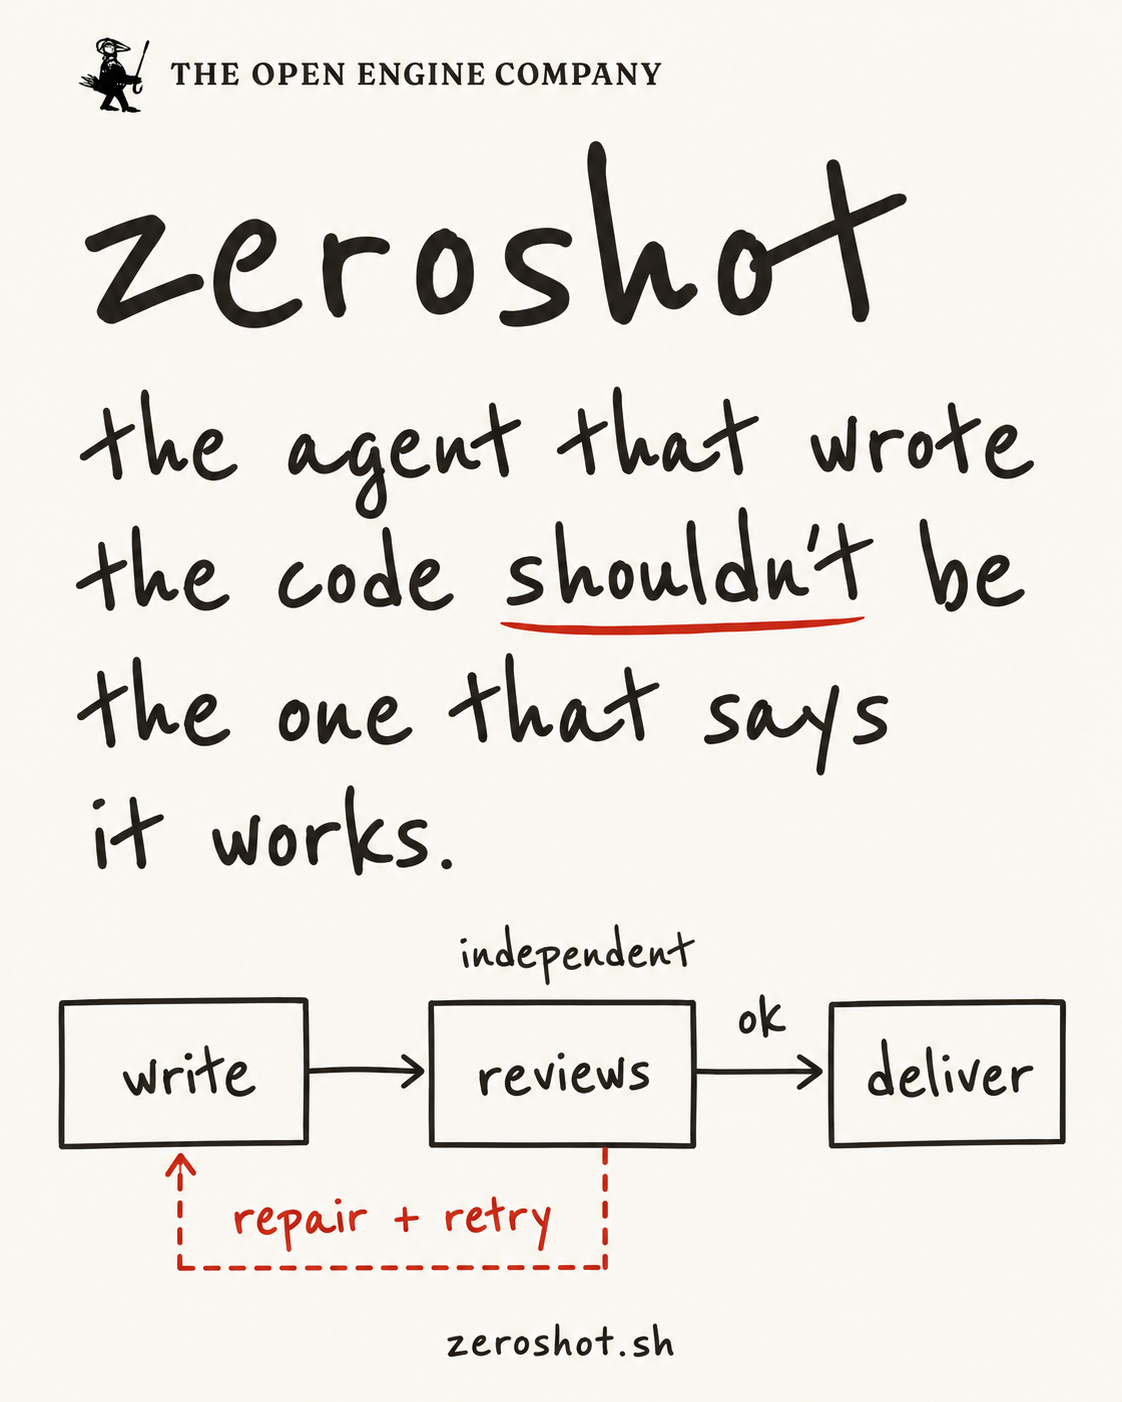
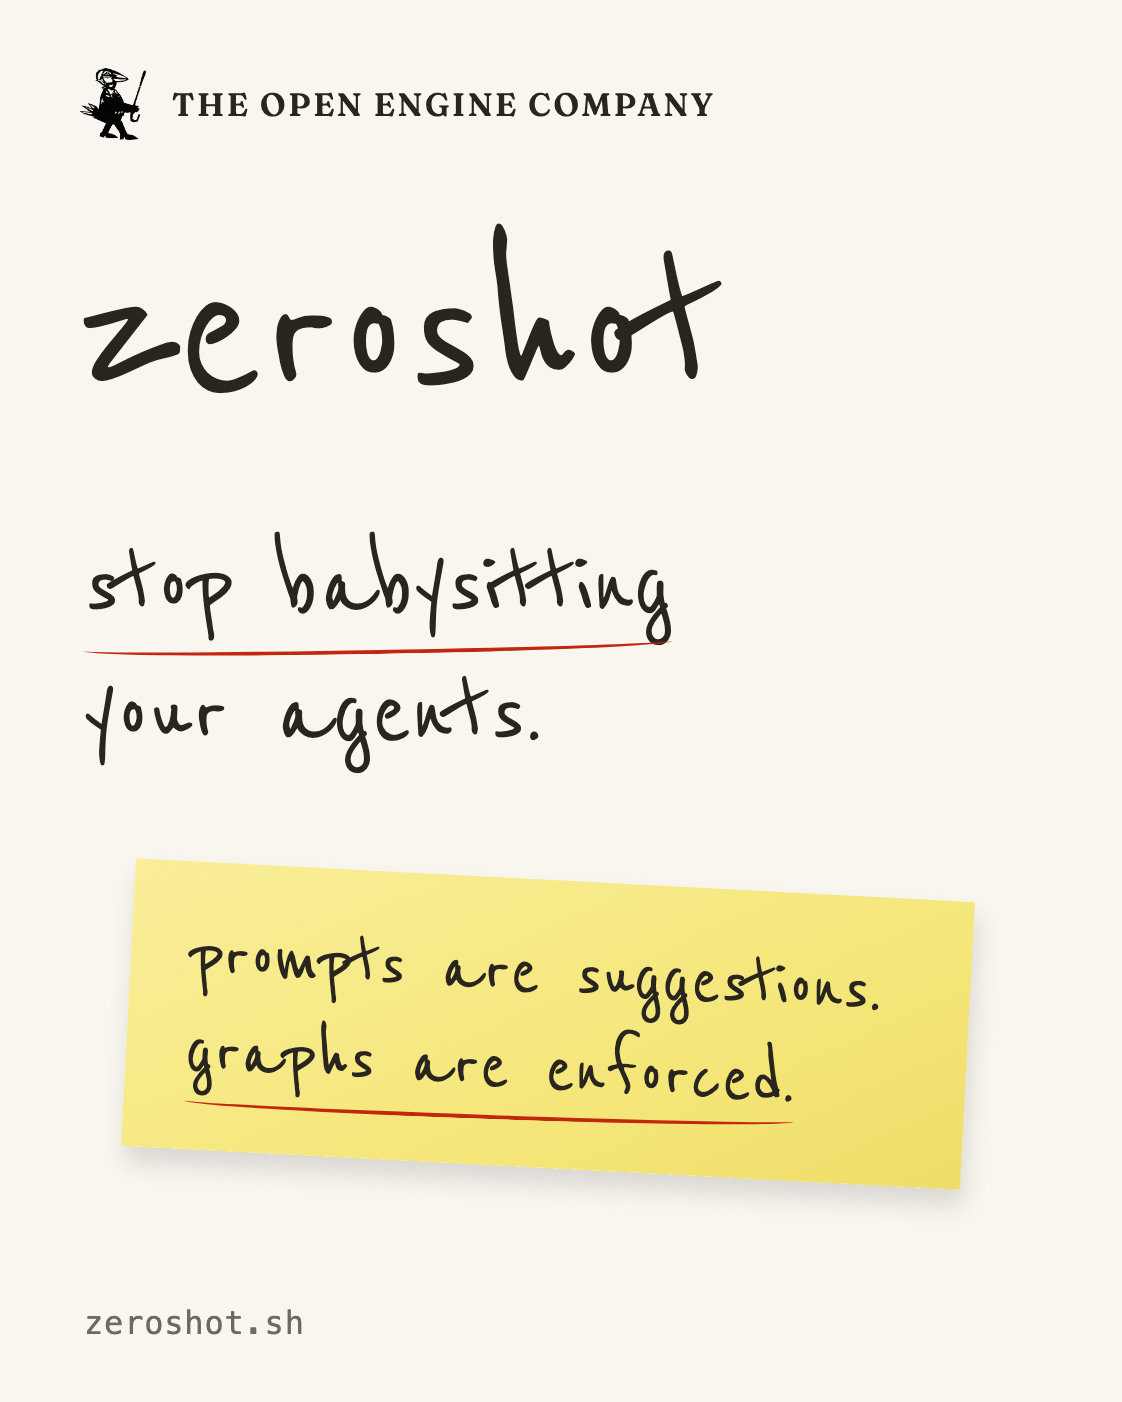
docs(readme): lead with the team's own graph
Move "Build your own graph" up under the intro, show how to design one with the zeroshot-graph-design skill or run an edited export with --graph, and draw the example as text. Drop the early animated graph. The banners now carry the README headline instead of the built-in review loop; the mobile banner is rendered from HTML.

diff --git a/docs/brand/hero.css b/docs/brand/hero.css
@@ -10,14 +10,9 @@ html, body { margin: 0; width: 1280px; height: 400px; }
 .brand img { width: 33px; height: 36px; object-fit: contain; }
 [data-theme="dark"] .brand img { filter: invert(1); }
 h1 { position: absolute; margin: 0; left: 51px; top: 87px; font-size: 120px; font-weight: 400; line-height: 1; letter-spacing: -2px; }
-.description { position: absolute; top: 206px; left: 56px; margin: 0; font-size: 44px; line-height: 1.12; }
+.description { position: absolute; top: 222px; left: 56px; margin: 0; font-size: 56px; line-height: 1.12; }
 .emphasis { position: relative; display: inline-block; }
 .emphasis::after { content: ""; position: absolute; left: 0; right: 0; bottom: -1px; height: 6px; border-bottom: 2px solid var(--accent); border-radius: 50%; transform: rotate(-1deg); }
 .url { position: absolute; bottom: 29px; left: 56px; margin: 0; color: var(--muted); font: 16px ui-monospace, "SF Mono", Menlo, monospace; letter-spacing: .4px; }
-.note { position: absolute; top: 40px; right: 72px; width: 264px; height: 124px; padding: 18px 23px; margin: 0; background: linear-gradient(153deg,#fbef99 0%,#f5e777 65%,#f0de68 100%); box-shadow: 2px 8px 12px #00000020; transform: rotate(3deg); color: #26221c; font-size: 34px; line-height: 1.02; }
+.note { position: absolute; top: 128px; right: 96px; width: 392px; height: 136px; padding: 24px 30px; margin: 0; background: linear-gradient(153deg,#fbef99 0%,#f5e777 65%,#f0de68 100%); box-shadow: 2px 8px 12px #00000020; transform: rotate(3deg); color: #26221c; font-size: 40px; line-height: 1.12; }
 .note .emphasis::after { border-color: #c2240c; }
-.diagram { position: absolute; top: 184px; right: 47px; width: 444px; height: 176px; overflow: visible; }
-.diagram text { font-family: "Reenie Beanie", cursive; font-size: 31px; fill: var(--ink); text-anchor: middle; }
-.diagram .stroke { fill: none; stroke: var(--ink); stroke-width: 1.6; stroke-linecap: round; stroke-linejoin: round; }
-.diagram .retry { fill: none; stroke: var(--accent); stroke-width: 1.5; stroke-linecap: round; stroke-dasharray: 5 5; }
-.diagram .label { fill: var(--accent); font-size: 27px; }

diff --git a/docs/brand/zeroshot-hero-dark.html b/docs/brand/zeroshot-hero-dark.html
@@ -10,19 +10,8 @@
   <main class="hero">
     <div class="brand"><img src="assets/oec-mascot.png" alt="">THE OPEN ENGINE COMPANY</div>
     <h1>zeroshot</h1>
-    <p class="description">the agent that wrote the code<br><span class="emphasis">shouldn't</span> be the one that says it works.</p>
-    <p class="note">one agent writes.<br><span class="emphasis">others review.</span></p>
-    <svg class="diagram" viewBox="0 0 444 176" role="img" aria-label="An agent writes, independent agents review, and delivery follows approval. Rejections loop back for repair.">
-<text x="228" y="20" style="font-size:26px">independent</text>
-<g class="stroke">
-<path d="M12 38 L115 37 L116 97 L13 98 Z M171 36 L285 37 L284 98 L170 97 Z M345 39 L429 38 L428 96 L344 97 Z"/>
-<path d="M116 67 Q139 64 167 67 M160 62 L168 67 L160 72 M286 67 Q311 69 341 67 M334 62 L342 67 L334 72"/>
-</g>
-<text x="64" y="77">write</text><text x="228" y="77">reviews</text><text x="386" y="77">deliver</text>
-<text x="313" y="48" style="font-size:26px">ok</text>
-<path class="retry" d="M228 99 L227 147 L63 146 L64 103 M58 110 L64 102 L70 110"/>
-<text class="label" x="151" y="137">repair + retry</text>
-</svg>
+    <p class="description"><span class="emphasis">stop babysitting</span> your agents.</p>
+    <p class="note">prompts are suggestions.<br><span class="emphasis">graphs are enforced.</span></p>
     <p class="url">zeroshot.sh</p>
   </main>
 </body>

diff --git a/docs/brand/zeroshot-hero-light.html b/docs/brand/zeroshot-hero-light.html
@@ -10,19 +10,8 @@
   <main class="hero">
     <div class="brand"><img src="assets/oec-mascot.png" alt="">THE OPEN ENGINE COMPANY</div>
     <h1>zeroshot</h1>
-    <p class="description">the agent that wrote the code<br><span class="emphasis">shouldn't</span> be the one that says it works.</p>
-    <p class="note">one agent writes.<br><span class="emphasis">others review.</span></p>
-    <svg class="diagram" viewBox="0 0 444 176" role="img" aria-label="An agent writes, independent agents review, and delivery follows approval. Rejections loop back for repair.">
-<text x="228" y="20" style="font-size:26px">independent</text>
-<g class="stroke">
-<path d="M12 38 L115 37 L116 97 L13 98 Z M171 36 L285 37 L284 98 L170 97 Z M345 39 L429 38 L428 96 L344 97 Z"/>
-<path d="M116 67 Q139 64 167 67 M160 62 L168 67 L160 72 M286 67 Q311 69 341 67 M334 62 L342 67 L334 72"/>
-</g>
-<text x="64" y="77">write</text><text x="228" y="77">reviews</text><text x="386" y="77">deliver</text>
-<text x="313" y="48" style="font-size:26px">ok</text>
-<path class="retry" d="M228 99 L227 147 L63 146 L64 103 M58 110 L64 102 L70 110"/>
-<text class="label" x="151" y="137">repair + retry</text>
-</svg>
+    <p class="description"><span class="emphasis">stop babysitting</span> your agents.</p>
+    <p class="note">prompts are suggestions.<br><span class="emphasis">graphs are enforced.</span></p>
     <p class="url">zeroshot.sh</p>
   </main>
 </body>

diff --git a/docs/brand/zeroshot-hero-mobile.html b/docs/brand/zeroshot-hero-mobile.html
@@ -1,0 +1,26 @@
+<!doctype html>
+<html lang="en" data-theme="light">
+<head>
+  <meta charset="utf-8">
+  <meta name="viewport" content="width=561">
+  <title>Zeroshot · The Open Engine</title>
+  <link rel="stylesheet" href="hero.css">
+  <style>
+    html, body, .hero { width: 561px; height: 701px; }
+    .brand { left: 40px; top: 34px; }
+    h1 { left: 38px; top: 104px; font-size: 128px; }
+    .description { top: 262px; left: 42px; font-size: 58px; line-height: 1.1; }
+    .note { top: 440px; left: 64px; right: auto; width: 420px; height: 144px; font-size: 43px; }
+    .url { left: 42px; bottom: 30px; }
+  </style>
+</head>
+<body>
+  <main class="hero">
+    <div class="brand"><img src="assets/oec-mascot.png" alt="">THE OPEN ENGINE COMPANY</div>
+    <h1>zeroshot</h1>
+    <p class="description"><span class="emphasis">stop babysitting</span><br>your agents.</p>
+    <p class="note">prompts are suggestions.<br><span class="emphasis">graphs are enforced.</span></p>
+    <p class="url">zeroshot.sh</p>
+  </main>
+</body>
+</html>

diff --git a/README.md b/README.md
@@ -3,7 +3,7 @@
 <picture>
   <source media="(max-width: 640px)" srcset="docs/brand/zeroshot-hero-mobile.png">
   <source media="(prefers-color-scheme: dark)" srcset="docs/brand/zeroshot-hero-dark.png">
-  <img alt="zeroshot: the agent that wrote the code should not be the one that says it works. Independent review and repair." src="docs/brand/zeroshot-hero-light.png" width="100%">
+  <img alt="zeroshot: stop babysitting your agents. Prompts are suggestions; graphs are enforced." src="docs/brand/zeroshot-hero-light.png" width="100%">
 </picture>
 
 &nbsp;
@@ -34,16 +34,13 @@
 
 Prompts are suggestions. Graphs are enforced.
 
-A skill can ask for a review, but the agent decides whether to listen. In a zeroshot graph, your QA
-process is enforced by code.
+A skill can ask for a review, but the agent decides whether to listen. In zeroshot, you define your
+team's QA process as a graph: which agents write the code, which independent agents review or test
+it, what must pass, and where rejected work goes for repair. The engine enforces the graph's order,
+routing and retry limits; model output cannot add an edge or raise a bound.
 
-zeroshot runs coding, independent review and repairs through the workflow you define.
-
-Choose the agents and models, define what must pass, and decide where rejected work goes for
-repair.
-
-The engine enforces the graph’s review gates and retry limits. Each agent can use its own model and
-harness.
+Each step can use its own harness and model. Save the graph as a profile, locally or for your
+organization on Zeroshot Platform, so everyone runs the same process.
 
 On 20 ProgramBench tasks, [a small model in a zeroshot loop](https://theopenengine.com/blog/review-loop/)
 matched a larger model's score at a median 58% of its cost. More examples on zeroshot.sh:
@@ -53,18 +50,49 @@ and [a research run](https://zeroshot.sh/#not-just-coding).
 The CLI is free and MIT licensed. Run locally, [self-host](#self-hosted-run-the-docker-target), or
 use [Zeroshot Platform](https://app.zeroshot.sh/docs).
 
-<div align="center">
-  <a href="https://zeroshot.sh/#topology">
-    <picture>
-      <source media="(prefers-reduced-motion: reduce) and (max-width: 640px)" srcset="docs/assets/product-graph-feature-mobile.png">
-      <source media="(prefers-reduced-motion: reduce)" srcset="docs/assets/product-graph-feature-wide.png">
-      <source media="(max-width: 640px)" srcset="docs/assets/product-graph-feature-mobile.gif">
-      <img src="docs/assets/product-graph-feature-wide.gif" alt="Example custom graph: a worker, parallel acceptance and code review plus a bugfinder, UI review, adversarial end-to-end testing, and delivery. Rejections return to the worker for repair." width="640">
-    </picture>
-  </a>
-  <br>
-  <em>Example custom workflow. <a href="https://zeroshot.sh/#topology">Explore the interactive graphs.</a></em>
-</div>
+## Build your own graph
+
+```text
+worker ◄──────────── any "no", with the reason ──┐
+  ▼                                              │
+risk check                                       │
+  ├─ auth, payments or a migration?              │
+  │    ▼                                         │
+  │  security review ─────────────────────── no ─┤
+  ▼    ▼                                         │
+acceptance + code review, in parallel ────── no ─┘
+  ▼ both yes
+deliver
+```
+
+An example team graph: changes that touch auth, payments or a migration get a security review
+first, then every change goes through acceptance and code review in parallel.
+[More example graphs on zeroshot.sh](https://zeroshot.sh/#topology).
+
+Paste this into Claude Code or Codex in your repo to design yours:
+
+```text
+Use the zeroshot-graph-design skill to turn how we check changes in this repo into a zeroshot graph.
+```
+
+The skill reads your build, test and CI setup, drafts a graph like the one above, and saves it as a
+profile once you approve it.
+
+Or export the built-in graph, edit the JSON, and run your version. `input.json` and `runtime.json`
+are the files from [Get started](#get-started):
+
+```bash
+zeroshot template show software-change --delivery none > my-graph.json
+zeroshot run --title "My first graph" --graph my-graph.json \
+  --uniform-runtime-config runtime.json --input input.json
+```
+
+The software-change review loop, auto-research graph, and delivery are built in. You define other
+stages, their tools, services and credentials, and where failures go for repair.
+[Build a review loop](docs/guides/review-loop.md) walks through a complete graph file with two
+independent reviewers and a repair loop. See the [graph contract](docs/reference/cluster/graph.md)
+for supported graph structures and [Prepare a runtime environment](docs/guides/runtime-environments.md)
+for dependency and service setup.
 
 ## What users say
 
@@ -167,41 +195,6 @@ For runtime configuration and credentials, see [Runtimes and connections](docs/c
 Connect GitHub and bring your own model API keys.
 [Platform setup guide →](https://app.zeroshot.sh/docs)
 
-## Build your own graph
-
-Choose each agent's model and instructions, which steps run in parallel, and when to retry.
-This example routes changes to auth, payments, or migrations through a blast-radius map and security
-review before acceptance and code review. Other changes go straight to review.
-
-<a href="https://zeroshot.sh/#topology">
-<picture>
-  <source media="(max-width: 640px)" srcset="docs/assets/product-graph-danger-mobile.png">
-  <img src="docs/assets/product-graph-danger-wide.png" alt="Example custom graph: a risk check routes auth, payments, or migration changes through blast-radius mapping and security review. All changes then pass acceptance and code review; rejection returns to the worker for repair." width="640">
-</picture>
-</a>
-
-The software-change review loop, auto-research graph, and delivery are built in. You define other
-stages, their tools, services and credentials, and where failures go for repair.
-
-Inspect the built-in graph as a starting point:
-
-```bash
-zeroshot template show software-change
-```
-
-Terminal output is a tree. Names marked `*` are executable nodes for `--runtime-config`;
-template delivery bindings are supplied automatically. Use the same delivery flags as your run to
-inspect its delivery nodes. Add `--json` or redirect stdout to export the complete graph as JSON:
-
-```bash
-zeroshot template show software-change > graph.json
-```
-
-Start with [Build a review loop](docs/guides/review-loop.md), a complete example with two independent
-reviewers and a repair loop. Adapt the reviewers’ instructions to your project. See the
-[graph contract](docs/reference/cluster/graph.md) for supported graph structures and
-[Prepare a runtime environment](docs/guides/runtime-environments.md) for dependency and service setup.
-
 ## Save and reuse a profile
 
 Each step can use its own model. Pass `--runtime-config` with one binding per node in place of
@@ -227,7 +220,8 @@ Each step can use its own model. Pass `--runtime-config` with one binding per no
 
 The same worker handles implementation, review repairs, and delivery repairs in one session.
 Both reviewers start fresh on every pass. Run `zeroshot template show software-change` to list
-the node names. See the
+the node names; names marked `*` need a binding, and template delivery bindings are supplied
+automatically. See the
 [RuntimePlan reference](docs/reference/runtime-plan.md) for every field.
 
 A profile stores a graph and its runtime settings. Use **Profiles** in the browser UI to edit and

diff --git a/docs/brand/README.md b/docs/brand/README.md
@@ -8,14 +8,14 @@ handwritten headings and diagrams, yellow notes, and the company mascot.
 
 ## Files
 
-- `zeroshot-hero-light.html` and `zeroshot-hero-dark.html`: source layouts.
+- `zeroshot-hero-light.html`, `zeroshot-hero-dark.html` and `zeroshot-hero-mobile.html`: source
+  layouts.
 - `hero.css`: shared layout and theme tokens.
 - `zeroshot-hero-light.png` and `zeroshot-hero-dark.png`: 2560 × 800 exports
   from a 1280 × 400 canvas at 2× scale.
-- `zeroshot-hero-mobile.png`: 1122 × 1402 portrait banner selected by the README
-  below 641px viewport width, before the desktop theme sources. It uses the same
-  warm-paper design in both themes, larger text and diagram labels, and omits the
-  duplicate sticky note. This is a raster asset, separate from the HTML exports.
+- `zeroshot-hero-mobile.png`: 1122 × 1402 portrait banner, exported from a 561 × 701 canvas at
+  2× scale, selected by the README below 641px viewport width, before the desktop theme sources.
+  It uses the warm-paper design in both themes.
 - `social/starred-by.html`: the "Starred by engineers at" strip under the README badges. Its
   companies come from the self-reported GitHub company field of zeroshot stargazers, each profile
   checked by hand, so the copy says "engineers at", never "used by". Marks are Simple Icons (CC0).
@@ -31,7 +31,8 @@ Reenie Beanie is the handwriting face; Fraunces 600 is the company wordmark.
 The light palette uses paper `#FAF7F1`, pen ink `#26221C`, and rust `#C2240C`.
 Dark mode uses `#171411`, cream text, and the documentation theme's lighter rust
 `#ED6B55` for readable accents. Notes retain yellow paper and dark ink in both themes.
-The diagrams illustrate each product's feedback loop, rather than runtime status.
+The banners carry the README headline and the "graphs are enforced" note. They draw no graph:
+a fixed loop on the banner would sell the built-in template instead of the team's own graph.
 
 ## Re-render
 
@@ -51,8 +52,9 @@ const { pathToFileURL } = require('node:url');
       viewport: { width: 1280, height: 400 },
       deviceScaleFactor: 2,
     });
-    for (const theme of ['light', 'dark']) {
-      const stem = resolve(`docs/brand/zeroshot-hero-${theme}`);
+    for (const [name, width, height] of [['light', 1280, 400], ['dark', 1280, 400], ['mobile', 561, 701]]) {
+      await page.setViewportSize({ width, height });
+      const stem = resolve(`docs/brand/zeroshot-hero-${name}`);
       await page.goto(pathToFileURL(`${stem}.html`).href);
       await page.evaluate(() => document.fonts.ready);
       const ready = await page.evaluate(() =>
@@ -72,11 +74,6 @@ JS
 Review both exports at full resolution and README display width before committing.
 
 ## Asset provenance
-
-- `zeroshot-hero-mobile.png`: generated with the built-in imagegen tool on October 13,
-  2026, using the existing light banner as the edit target. Direction: reflow into a
-  4:5 mobile portrait; preserve the exact main sentence, company mark, handwritten
-  style and review loop; enlarge all text; remove the duplicate sticky note.
 
 - `assets/oec-mascot.png`: unchanged copy of
   `company/content/brand/logos/open-engine-mascot-website.png`, originally from
@@ -190,7 +187,10 @@ JS
 
 ## Product-page graph exports
 
-The README uses the graphs at <https://zeroshot.sh/#topology>, captured on October 19, 2026.
+The README no longer shows these exports: its example graph is a text block, so it stays sharp at
+any width, works in both themes, and is readable by agents that fetch the README as plain text.
+The exports below are kept for reuse. They come from <https://zeroshot.sh/#topology>, captured on
+October 19, 2026.
 The source panels are `graph-panel-feature` (Ship a feature) and `graph-panel-danger` (A risky
 change), each with desktop and mobile SVG layouts. These are illustrative custom graphs, not
 recordings or built-in templates. The README links back to the interactive examples.
@@ -200,11 +200,9 @@ animation: review rejection, repair, end-to-end rejection, repair, then delivery
 have 800 frames at 50 fps and loop continuously. Desktop is 1280px wide; mobile is 780px wide.
 The desktop export includes the page's key (writes, judges, built in, boots the stack); the
 page's mobile layout has no key.
-The risk-routing graph is static on the source page and remains a PNG in the README.
+The risk-routing graph is static on the source page and exported as a PNG.
 
-The four `product-graph-{feature,danger}-{wide,mobile}.png` files are static exports. The feature
-PNGs are selected when the reader requests reduced motion. The mobile layout is selected at
-viewport widths of 640px or less, with reduced-motion sources taking precedence.
+The four `product-graph-{feature,danger}-{wide,mobile}.png` files are static exports.
 
 Exports retain the page's paths, labels, role icons, Caveat 600 font, and warm-paper palette.
 Sixteen SVG units of padding protect icons at the edges. Both themes use the page's paper
@@ -224,6 +222,5 @@ NODE_PATH=/tmp/open-engine-banner-tools/node_modules node docs/brand/render-prod
 
 The renderer pauses the source CSS animations and seeks every frame explicitly. Inspect the
 review rejection, end-to-end rejection, final delivery, and loop boundary in both sizes.
-When updating the drawings, refresh them from the source page, preserve its animation rules,
-and inspect the README's normal and reduced-motion variants. The source page owns changes to
-the graph drawings.
+When updating the drawings, refresh them from the source page and preserve its animation rules.
+The source page owns changes to the graph drawings.
